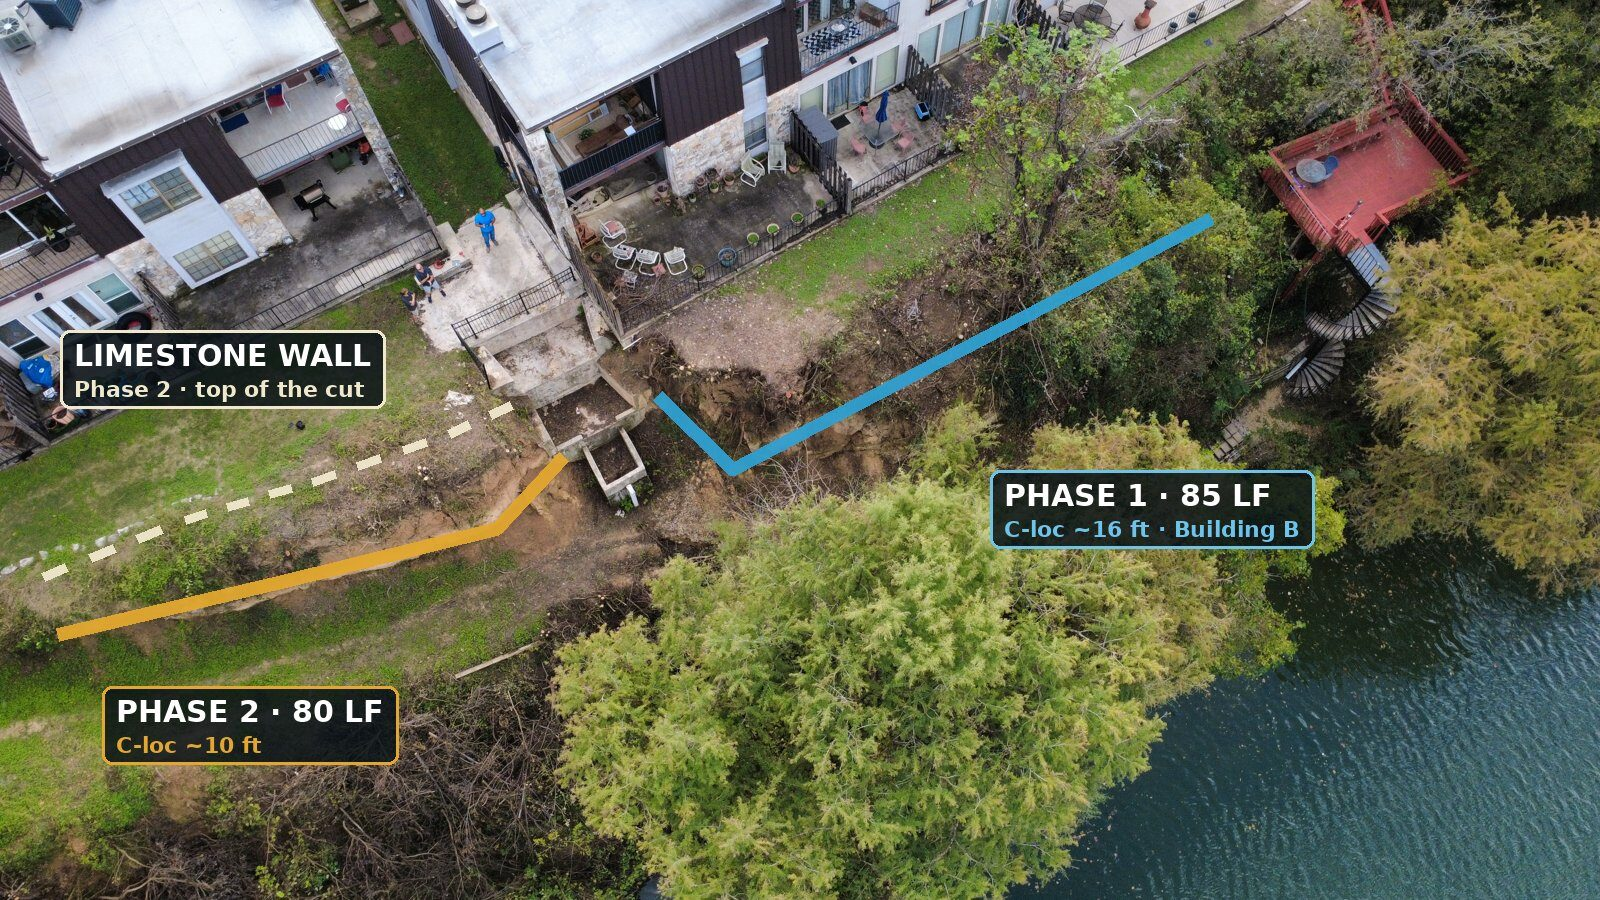
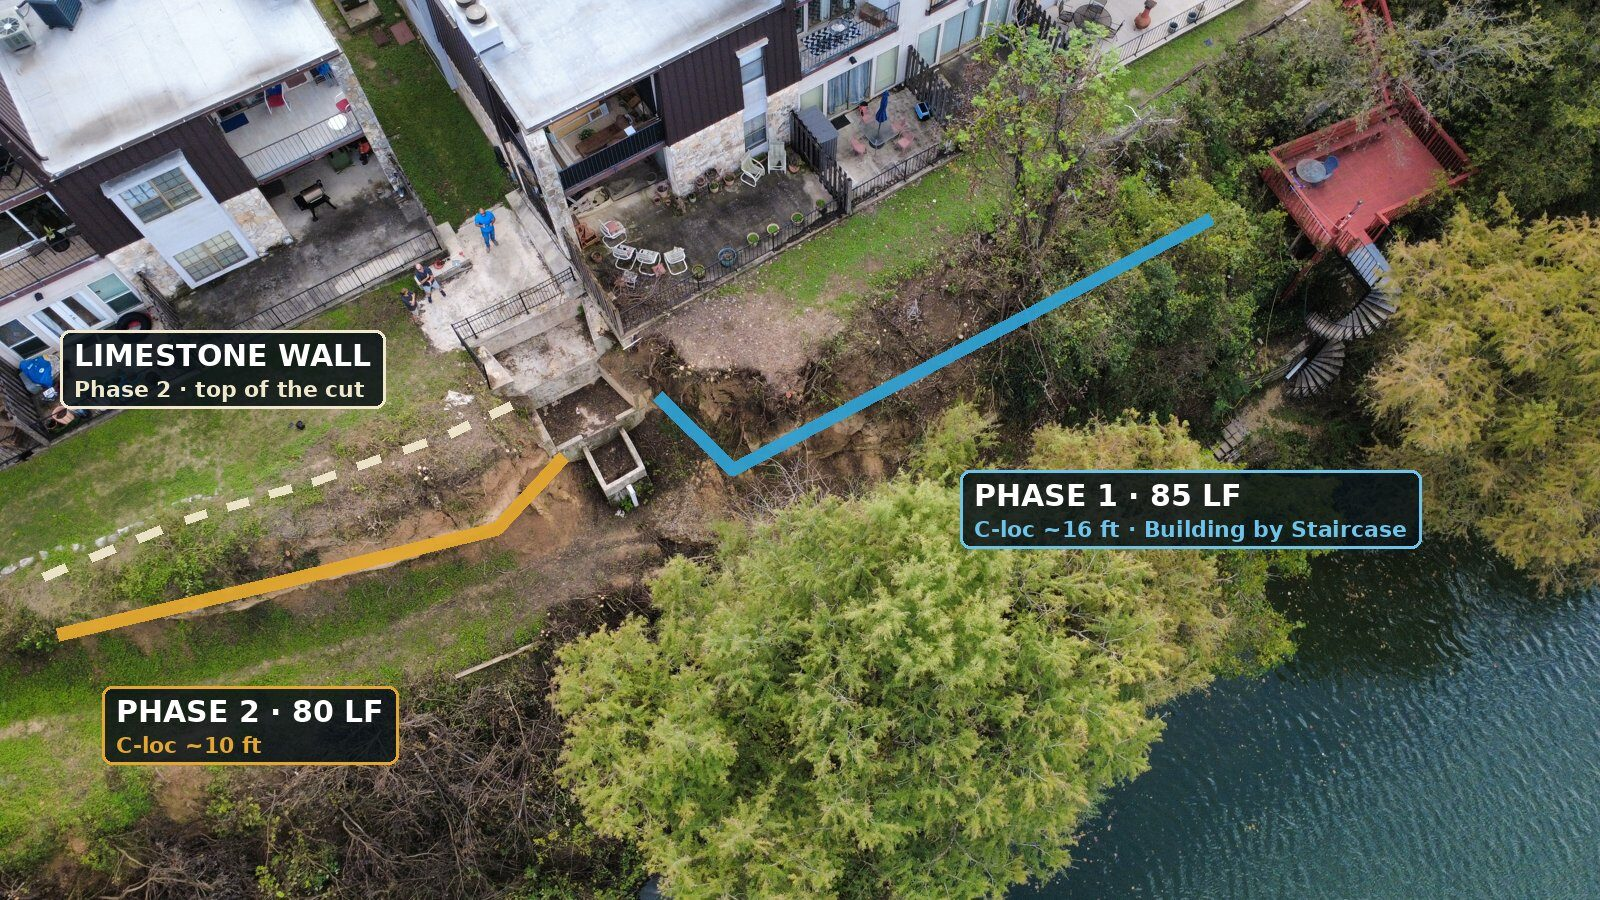
474 Seele St: rename Building B side to Building by Staircase side
Claude-Session: https://claude.ai/code/session_01ACFyT5NYJkVngDarMTA6m9

Changed region(s): [[0.5938, 0.4978, 0.9062, 0.6222]]

diff --git a/474-seele-st-r8m2qk/index.html b/474-seele-st-r8m2qk/index.html
@@ -349,7 +349,7 @@ footer b{color:var(--on-deep);font-family:var(--f-display);letter-spacing:.08em;
           <a class="btn btn-ghost" href="#investment">View investment</a>
         </div>
       </div>
-      <div class="hero-shot"><img src="render-phase1.jpg" alt="Conceptual rendering of the new Phase 1 C-loc seawall beside Building B"><span class="tag">Conceptual rendering</span></div>
+      <div class="hero-shot"><img src="render-phase1.jpg" alt="Conceptual rendering of the new Phase 1 C-loc seawall beside the Building by Staircase"><span class="tag">Conceptual rendering</span></div>
     </div>
     <div class="stats" id="heroStats"></div>
   </div>
@@ -369,7 +369,7 @@ footer b{color:var(--on-deep);font-family:var(--f-display);letter-spacing:.08em;
 <section id="site" class="alt">
   <div class="wrap">
     <div class="sec-head"><span class="eyebrow">Your property today</span><h2 class="h2">What we found on November 2</h2>
-      <p class="lede">Fill piled on the upper bank and runoff from the clogged drainage path have cut the bank into near-vertical faces. Beside Building B, the bank has eroded under the footing of the concrete drainage structure.</p></div>
+      <p class="lede">Fill piled on the upper bank and runoff from the clogged drainage path have cut the bank into near-vertical faces. Beside the Building by Staircase, the bank has eroded under the footing of the concrete drainage structure.</p></div>
     <div class="gal">
       <figure><img src="site-1.jpg" alt="Drone view from the river of the buildings, the drainage structure and the eroded bank" loading="lazy"><figcaption>Overview from the river</figcaption></figure>
       <figure><img src="site-2.jpg" alt="Exposed footing of the concrete drainage structure" loading="lazy"><figcaption>Undermined footing</figcaption></figure>
@@ -381,11 +381,11 @@ footer b{color:var(--on-deep);font-family:var(--f-display);letter-spacing:.08em;
 <section id="design" class="band">
   <div class="wrap">
     <div class="sec-head"><span class="eyebrow">Renderings</span><h2 class="h2">What the finished bank will look like</h2>
-      <p class="lede">Two sections of C-loc seawall, tied into the concrete drainage structure so they form one continuous line. Phase 1 is the tall section beside Building B, running from the drainage structure up along the eroded bank toward the spiral staircase. Phase 2 runs along the lower bank on the lawn side, with a limestone block wall higher up where the top of the bank is cut down.</p></div>
+      <p class="lede">Two sections of C-loc seawall, tied into the concrete drainage structure so they form one continuous line. Phase 1 is the tall section beside the Building by Staircase, running from the drainage structure up along the eroded bank toward the spiral staircase. Phase 2 runs along the lower bank on the lawn side, with a limestone block wall higher up where the top of the bank is cut down.</p></div>
     <figure class="rend"><img src="site-plan.jpg" alt="Drone photo marked with the Phase 1 and Phase 2 wall alignments" loading="lazy"></figure>
     <p class="rend-cap">Wall alignments per Lakeside's November 2 markup on the drone photo: Phase 1 in blue, Phase 2 C-loc in amber, and the Phase 2 limestone wall dashed. Final layout is field-verified before construction.</p>
     <div class="rgal">
-      <figure><img src="render-phase1.jpg" alt="Rendering of the Phase 1 seawall beside Building B" loading="lazy"><figcaption>Phase 1 · beside Building B</figcaption></figure>
+      <figure><img src="render-phase1.jpg" alt="Rendering of the Phase 1 seawall beside the Building by Staircase" loading="lazy"><figcaption>Phase 1 · beside the Building by Staircase</figcaption></figure>
       <figure><img src="render-phase2.jpg" alt="Rendering of the Phase 2 seawall, terrace, limestone wall and walkway" loading="lazy"><figcaption>Phase 2 · lawn side</figcaption></figure>
       <figure><img src="render-aerial.jpg" alt="Aerial rendering of both phases" loading="lazy"><figcaption>Both phases · aerial</figcaption></figure>
       <figure><img src="render-river.jpg" alt="Rendering from the river of both phases" loading="lazy"><figcaption>From the river</figcaption></figure>
@@ -481,11 +481,11 @@ const P = {
   client:{ name:"Riverside Condos Association", property:"474 Seele St, New Braunfels, TX 78130" },
   title:"Riverbank Stabilization",
   date:"2026-11-02", validDays:30,
-  lede:"A C-loc vinyl seawall on steel pipe piles along 165 feet of the Guadalupe River bank, in two phases, starting beside Building B where the bank has eroded under the drainage structure.",
-  stats:[["$BOTH","Both phases"],["165 LF","C-loc seawall"],["2 phases","Building B side first"],["No deposit","Billed in progress draws"]],
+  lede:"A C-loc vinyl seawall on steel pipe piles along 165 feet of the Guadalupe River bank, in two phases, starting beside the Building by Staircase where the bank has eroded under the drainage structure.",
+  stats:[["$BOTH","Both phases"],["165 LF","C-loc seawall"],["2 phases","Building by Staircase side first"],["No deposit","Billed in progress draws"]],
   overviewTitle:"Hold the bank before it reaches the buildings",
   overview:[
-    "Thank you for walking the property with us. The upper bank is fill placed on top of the original ground over the years. That extra weight, plus storm runoff overflowing from the clogged drainage path, has cut the bank back into near-vertical faces. Beside Building B the bank has already eroded under the footing of the concrete drainage structure.",
+    "Thank you for walking the property with us. The upper bank is fill placed on top of the original ground over the years. That extra weight, plus storm runoff overflowing from the clogged drainage path, has cut the bank back into near-vertical faces. Beside the Building by Staircase the bank has already eroded under the footing of the concrete drainage structure.",
     "We'll drive steel pipe piles to rock and set C-loc ESP 4.1 vinyl sheet pile panels behind them, held by three rows of steel whalers and earth anchors, with a pressure-treated cap. On the lawn side we also cut the excess fill down, finish the top with a limestone block wall, turn the wash channel into a rock filter, and build a stepped walkway to the water. The work is split into two phases to fit the budget."
   ],
   benefits:[
@@ -495,7 +495,7 @@ const P = {
     {icon:"stair", t:"Water under control", d:"The wash channel becomes a rock filter of 12 in bull rock and septic gravel, and a stepped walkway gives access to the water."}
   ],
   keys:[
-    ["Phase 1 · 85 LF","From the drainage structure up the eroded bank toward the spiral staircase, beside Building B. Average height about 16 ft."],
+    ["Phase 1 · 85 LF","From the drainage structure up the eroded bank toward the spiral staircase, beside the Building by Staircase. Average height about 16 ft."],
     ["Phase 2 · 80 LF","The lawn side of the drainage structure. Average height about 10 ft, with the top cut down about 3 ft."],
     ["One continuous line","Both walls tie into the concrete drainage structure, whose undermined footing is caught and held."],
     ["Limestone block wall","2 ft blocks, the first course buried, for about 3 ft exposed along the top of the Phase 2 cut."],
@@ -509,7 +509,7 @@ const P = {
     ["Earth anchors","Driven into the bank and tied to the whalers."]
   ],
   phases:[
-    {id:"p1", name:"Phase 1 · Building B side", sub:"About 85 LF, drainage structure up the eroded bank toward the spiral staircase", items:[
+    {id:"p1", name:"Phase 1 · Building by Staircase side", sub:"About 85 LF, drainage structure up the eroded bank toward the spiral staircase", items:[
       {name:"Mobilization and site protection", price:5800, desc:"Mobilize the excavator, pile-driving equipment and crew, lay out the wall line, install erosion and sediment controls and protect patios and walkways along the access route."},
       {name:"Equipment pads", price:5000, desc:"Clear the work line and cut level pads about 10 ft wide so piles can be driven from the bottom. When working from the top, equipment stays 6 to 7 ft back from the edge."},
       {name:"Tie-in at the drainage structure", price:3300, desc:"Clean off the top of the exposed concrete footing, set block to catch it, and start the new wall from that point."},
@@ -545,7 +545,7 @@ const P = {
   why:{
     stats:[["Marine","Waterfront construction specialists"],["In-house","Excavators, pile driving and fabrication"],["Root cause","We fix why the bank fails, not just how it looks"]],
     points:[["Root cause first","The wall is held by piles to rock and earth anchors, and the runoff that started the washout is redirected through a rock filter."],
-            ["Phased to fit the budget","The most at-risk section beside Building B goes first; the lawn side can follow when the Association is ready."],
+            ["Phased to fit the budget","The most at-risk section beside the Building by Staircase goes first; the lawn side can follow when the Association is ready."],
             ["No deposit","You pay in progress draws as each phase gets done."],
             ["Fully insured","Workers' comp, general liability and marine coverage. Certificates come with the contract."]]
   },
